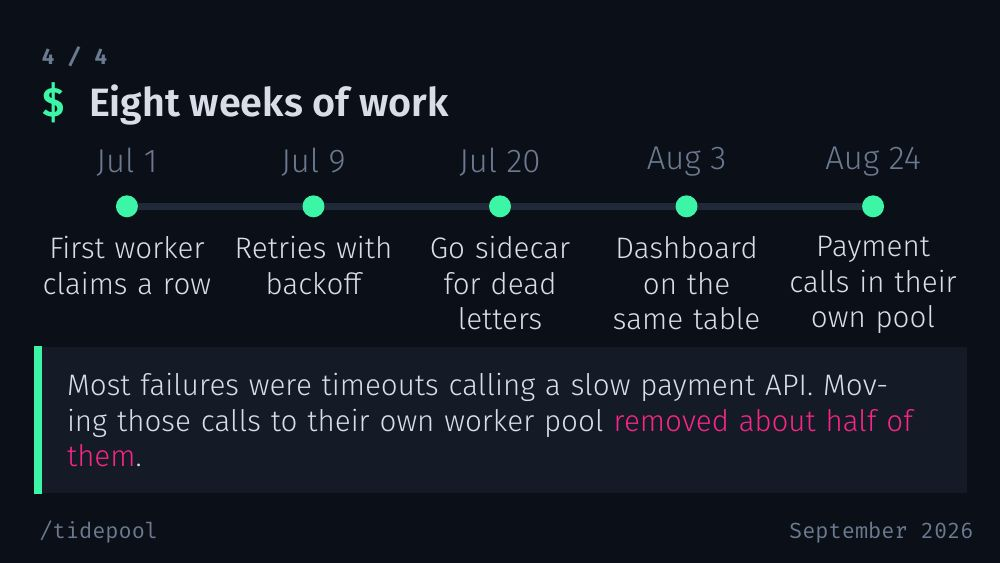
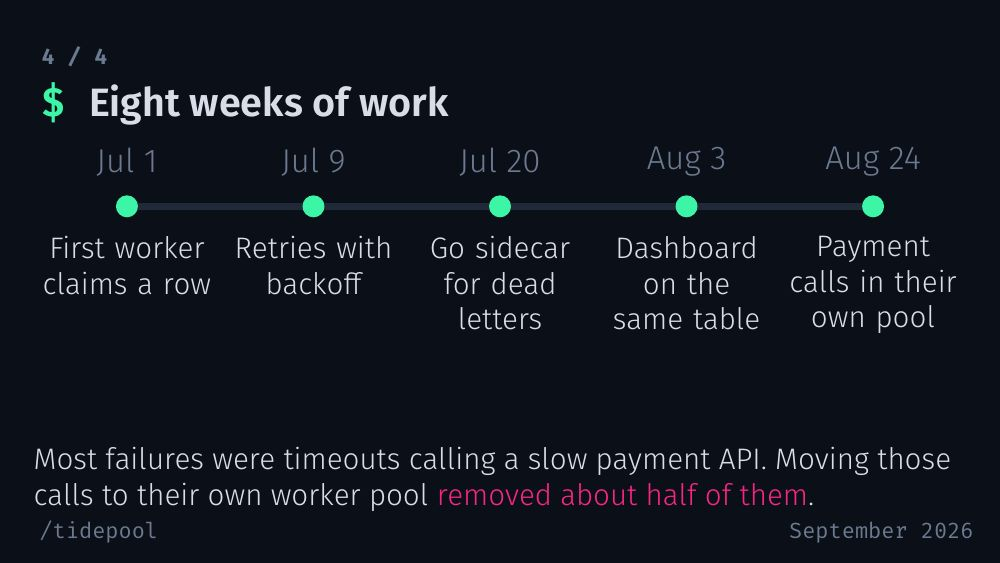
Samples and docs: dogfood report.pdf in article layout, regenerate slide previews

Changed region(s): [[0.031, 0.6039, 0.961, 0.9059]]

diff --git a/HANDOFF.md b/HANDOFF.md
@@ -205,7 +205,7 @@ Known small issues: error grouping turns `sqlite3` into `sqlite<n>`; zips with a
 
 **Job folder** `jobs/<id>/`:
 ```
-job.json        {"id","kind":"report"|"slides","theme":"paper"|"midnight"|"metropolis"|"moloch"|"focus"|"trigon"|"madrid"|"custom","template"?:true,
+job.json        {"id","kind":"report"|"slides","theme":"article" (every new report)|"paper"|"midnight"|"metropolis"|"moloch"|"focus"|"trigon"|"madrid"|"custom","template"?:true,
                  "length":int (slides 5–25, default 10; report pages 2–10, default 4),
                  "status":"queued"|"running"|"waiting"|"done"|"failed","createdAt",
                  "sessionId"?, "asked"?:true, "askCost"?, "revisions"?}
@@ -218,7 +218,7 @@ images/         images copied by collect.js as img1.png, img2.jpg, ... Re-collec
                 and numbers new ones after the max; input/added-N/ files are processed last, so table_<slug>.csv names stay put too
 facts.json      written by collect.js
 main.tex/.pdf   written by Claude; main.tex loads its theme only via \input{theme.tex}
-theme.tex       written by the server (at job creation and on a switch): one \usepackage line for the theme
+theme.tex       written by the server (at job creation and on a slides switch): one \usepackage line for the theme (reports: devreport-article)
 themes/         switch cache: <theme>.pdf per compiled theme + key (sha1 of main.tex and template/devreport-custom.sty)
 ```
 
@@ -262,9 +262,9 @@ claude -p "<prompt from .claude/skills/devreport/prompt.txt with {{kind}} {{them
   --output-format stream-json --verbose --allowedTools "<from prompt.txt notes>"
 claude --resume <sessionId> -p "<answered|skipped line>" ...   # after questions; session_id comes from the system/init event
 ```
-`{{length}}` is filled as e.g. `6 slides` or `4 pages`. `POST /api/jobs/:id/answers` takes `{"answers":{"q1":"..."}}` (ids from questions.json, ≤ 2000 chars each, at least one non-empty) or `{"skip":true}`; 409 unless status is `waiting`. SSE events: `step`, `questions` `{questions}`, `done`, `failed`.
-Theme files live in `.claude/skills/devreport/themes/devreport-<theme>.sty`, loaded by relative path from theme.tex. paper/midnight do article + beamer; the slides-only adapters load their Beamer theme and `devreport-core.sty` (the shared `dr*` interface: colours, `\drkpi`, `\drpie`, `\drsafecats`, `drbar`/`drhbar`, and the type scale `\drTitle \drLead \drH \drSub \drBody \drSmall \drCaption \drStat`). moloch and focus aren't in the tectonic bundle, so they are vendored in `themes/vendor/` with their licenses (CC BY-SA 4.0, GPL-3.0); metropolis, trigon and Madrid come from the bundle. `themes/previews/` holds, per theme, `<theme>.png` (400 px thumb of page 1) and `<theme>-1..4.jpg` (1000 px pages for the hover preview), plus `<theme>-report.png` / `-report-1..2.jpg` (800 px) for paper and midnight. They come from the fixed sample in `themes/sample/` (main.tex, report.tex, data/*.csv); regenerate with `sh scripts/previews.sh [theme ...]` (tectonic + pdftoppm). `GET /previews/<theme>[-report](.png|-N.jpg)` serves them.
+`{{length}}` is filled as e.g. `6 slides` or `4 pages`. `POST /api/jobs/:id/answers` takes `{"answers":{"q1":"..."}}` (ids from questions.json, ≤ 2000 chars each, at least one non-empty) or `{"skip":true}`; 409 unless status is `waiting`. SSE events: `step` `{icon, text}` (one per raw action; the agent's closing message has icon `final`), `questions` `{questions}`, `done`, `failed`. The UI folds steps into one line per phase (Uploading, Unpacking/Cloning, Analysing, Reading, Writing, Compiling, Polishing, Checking, Done) updated in place, from the event order alone so a replay rebuilds the same list; chatter, blocked commands and compile errors only show under "Show details". Revisions and theme switches run in the background: the PDF stays up with a thin progress bar, the revise panel shows one status line, and the new PDF swaps in on the same page.
+Theme files live in `.claude/skills/devreport/themes/devreport-<theme>.sty`, loaded by relative path from theme.tex. devreport-article.sty is the one report layout (standard article: Latin Modern, 1in margins, abstract, numbered sections, grey paper-style charts; same dr* names, `\drpie` draws a bar, `\drkpi` is plain text). paper/midnight still have an article branch for older report jobs but are offered for slides only; the slides-only adapters load their Beamer theme and `devreport-core.sty` (the shared `dr*` interface: colours, `\drkpi`, `\drpie`, `\drsafecats`, `drbar`/`drhbar`, and the type scale `\drTitle \drLead \drH \drSub \drBody \drSmall \drCaption \drStat`). moloch and focus aren't in the tectonic bundle, so they are vendored in `themes/vendor/` with their licenses (CC BY-SA 4.0, GPL-3.0); metropolis, trigon and Madrid come from the bundle. `themes/previews/` holds, per theme, `<theme>.png` (400 px thumb of page 1) and `<theme>-1..4.jpg` (1000 px pages for the hover preview). They come from the fixed sample deck in `themes/sample/` (main.tex, data/*.csv); regenerate with `sh scripts/previews.sh [theme ...]` (tectonic + pdftoppm). `GET /previews/<theme>(.png|-N.jpg)` serves them.
 
-`POST /api/jobs/:id/theme {theme}`: 409 unless the job is `done` and not being revised/switched; 400 if the theme is unknown, slides-only on a report, or `custom` without a template. Writes theme.tex, swaps in `themes/<theme>.pdf` or runs `tectonic main.tex` (60 s timeout), updates job.json; returns `{theme, pdf (cache-busted), ms, cached}`. On a failed compile it restores theme.tex and main.pdf and returns 422 with the first error line. An older main.tex with a hard-coded theme line is rewritten to `\input{theme.tex}` on its first switch.
+`POST /api/jobs/:id/theme {theme}`: 409 unless the job is `done` and not being revised/switched; 400 for any report (reports always use the article layout; an older paper/midnight report still opens but can't switch), or if the theme is unknown, `article` on slides, or `custom` without a template. Writes theme.tex, swaps in `themes/<theme>.pdf` or runs `tectonic main.tex` (60 s timeout), updates job.json; returns `{theme, pdf (cache-busted), ms, cached}`. On a failed compile it restores theme.tex and main.pdf and returns 422 with the first error line. An older main.tex with a hard-coded theme line is rewritten to `\input{theme.tex}` on its first switch.
 
 `POST /api/jobs/:id/revise`: JSON `{general, pages:[{page, note}]}`, or multipart/form-data to also add material: `general` (text), `pages` (JSON string of the same array), `notes` (≤ 20000 chars), `repoUrl` (public GitHub), any number of files (zips are unpacked like uploads). At least one of these; 409 while anything runs or if there's no finished PDF; 413 over 64 KB (JSON) / 50 MB (multipart). Returns 202 `{revision, version}`; progress on the job's SSE stream. Material goes to `input/added-N/` (notes as notes.md under "## Added after the first draft"), collect.js re-runs, the theme cache is dropped and the agent gets revise.txt + revise-added.txt. On failure main.tex/.pdf, facts.json are restored and added-N/ removed.

diff --git a/README.md b/README.md
@@ -6,7 +6,7 @@ Drop in dev logs, notes, a CSV, screenshots, a `.zip`, or just paste a GitHub li
 
 It's for student builders who have to write up a hackathon, coursework or side project and would rather keep building.
 
-Samples: [report (Paper theme)](samples/report-paper.pdf) · [slides (Midnight theme)](samples/slides-midnight.pdf)
+Samples: [report](samples/report.pdf) · [slides (Midnight theme)](samples/slides-midnight.pdf)
 
 ## How it works
 
@@ -25,7 +25,8 @@ upload / zip / GitHub link
 - **Length is a target.** Pick 5–25 slides or 2–10 pages. Claude aims within one either way, goes shorter rather than pad, and cuts the least important sections when there's too much.
 - **Locked-down agent.** Claude Code runs headless with only `Read,Write(./**),Edit(./**),Bash(tectonic:*),Skill`: no general shell, and it can only write inside the job folder. Uploaded content is treated as data, never instructions.
 - **Safe intake.** Zips are size-checked before extracting (zip bombs), path-escaping entries are rejected, symlinks are deleted. GitHub URLs are validated and cloned without a shell, with a timeout.
-- **Themes, switchable after the build.** Paper (serif, academic) and Midnight (dark, neon, terminal) work for reports and slides; slides also get five popular Beamer themes: Metropolis, Moloch (its maintained fork, dark variant), Focus, Trigon and the built-in Madrid. Each theme is a small adapter `.sty` exposing the same `dr*` colours, chart styles, stat tiles and type sizes, and `main.tex` only says `\input{theme.tex}`. So once a deck exists, clicking another theme rewrites that one line and reruns `tectonic` (about 1.2 s, no Claude); each compiled theme is cached, so switching back is instant.
+- **Reports look like a research paper.** Every report uses one standard LaTeX article layout (`devreport-article.sty`): 11pt Latin Modern, 1in margins, title, abstract, numbered sections, booktabs tables and numbered, referenced figures with black-and-grey pgfplots charts. No theme to pick.
+- **Slide themes, switchable after the build.** Paper (serif, academic), Midnight (dark, neon, terminal) and five popular Beamer themes: Metropolis, Moloch (its maintained fork, dark variant), Focus, Trigon and the built-in Madrid. Each theme is a small adapter `.sty` exposing the same `dr*` colours, chart styles, stat tiles and type sizes, and `main.tex` only says `\input{theme.tex}`. So once a deck exists, clicking another theme rewrites that one line and reruns `tectonic` (about 1.2 s, no Claude); each compiled theme is cached, so switching back is instant. Reports don't switch.
 - **Your own PowerPoint template (slides).** Upload a `.pptx` and `pptx.js` pulls out its colour palette, heading/body fonts, logo, title/body box positions and preview thumbnail into `template/template.json`. Claude writes a matching Beamer theme from that, compiles a test slide, compares it with the thumbnail and adjusts. Sample: [slides from a custom template](samples/slides-custom-template.pdf).
 
 ## Setup
